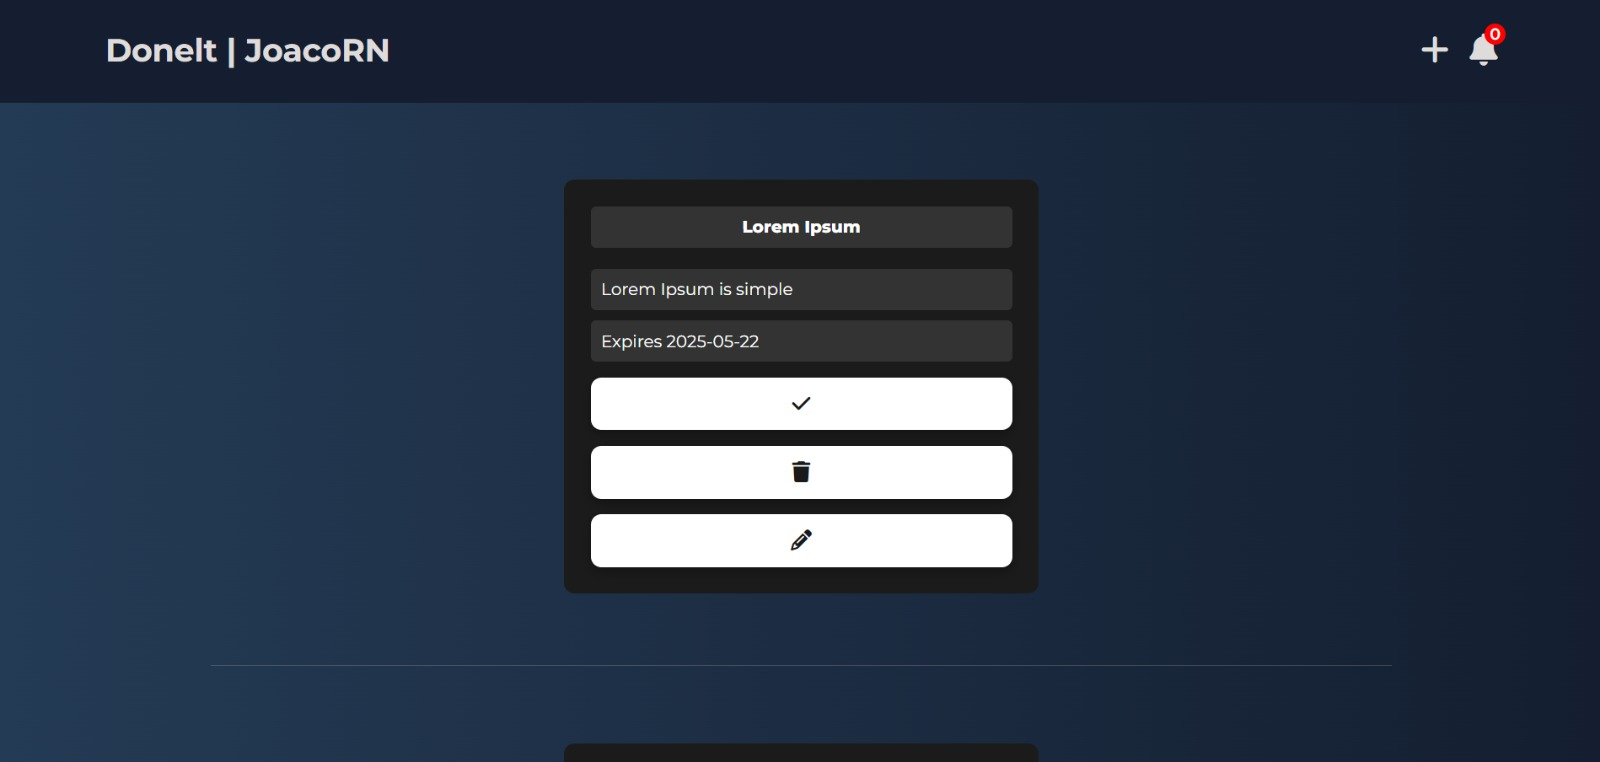
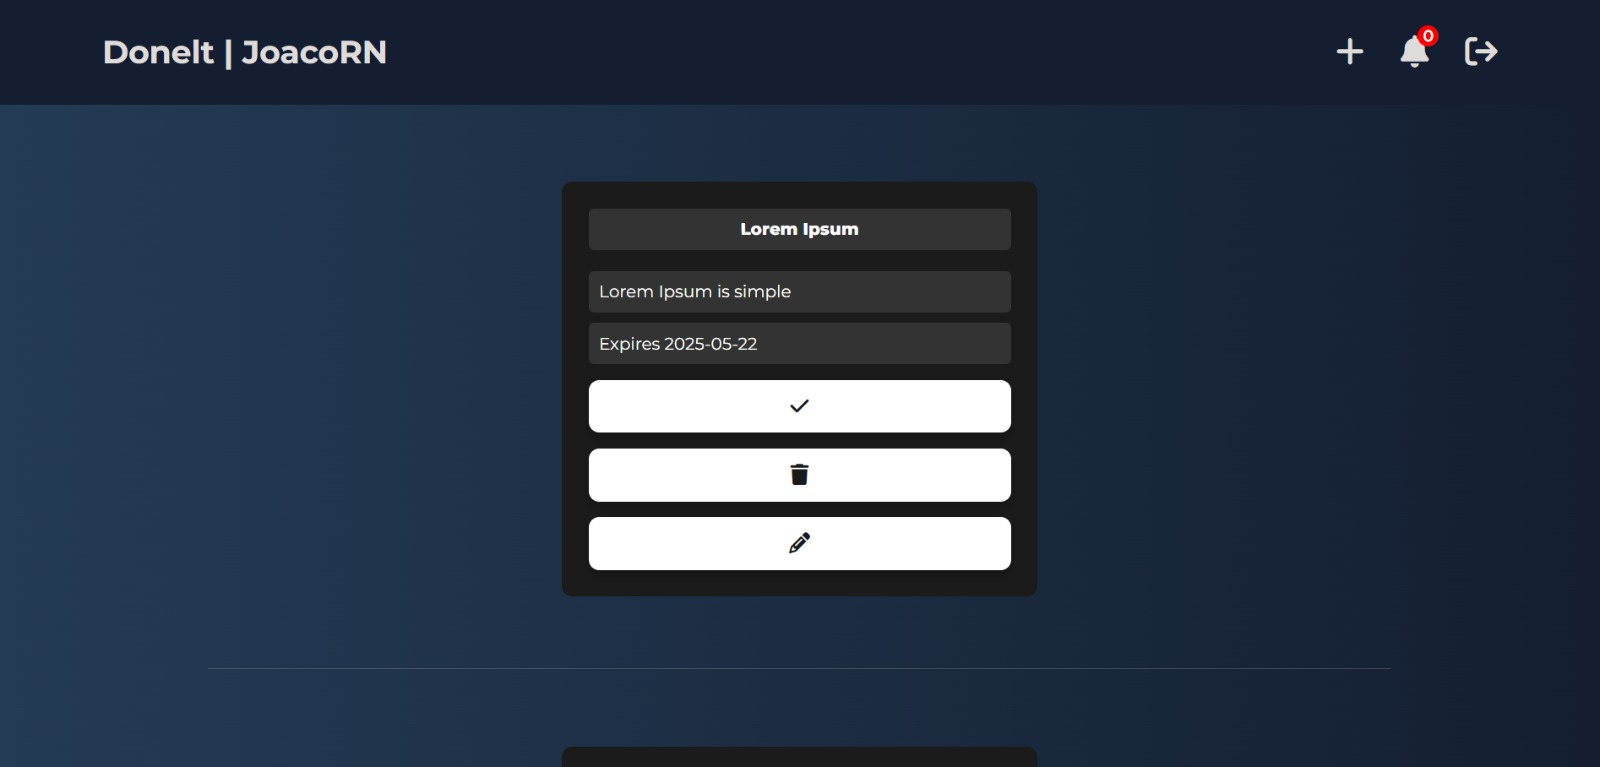
Log out implemented and token validation added to prevent unauthorized web access

diff --git a/frontend/assets/js/donelt.js b/frontend/assets/js/donelt.js
@@ -3,6 +3,13 @@ const username = JSON.parse(sessionStorage.getItem("username"));
 const taskSection = document.getElementById("tasks")
 const completedTasksSection = document.getElementById("completed-tasks")
 const title = document.getElementById("title")
+const logoutBtn = document.getElementById("logout")
+
+const token = sessionStorage.getItem("token");
+
+if (!token) {
+  window.location.href = "/index.html";
+}
 
 title.innerHTML += " " + username
 
@@ -230,6 +237,11 @@ function completeTask(id) {
       console.error("Error:", error.message);
     });
 }
+
+logoutBtn.addEventListener('click', ()=>{
+  sessionStorage.clear()
+  window.location.href = "/index.html"
+})
 
 getNotifications()
 getTasks()

diff --git a/frontend/assets/js/updateTask.js b/frontend/assets/js/updateTask.js
@@ -5,6 +5,12 @@ const description = decodeURIComponent(params.get("description"));
 const expirationDate = params.get("expirationDate");
 const taskId = params.get("id");
 
+const token = sessionStorage.getItem("token");
+
+if (!token) {
+  window.location.href = "/index.html";
+}
+
 // Rellenar los inputs con los valores actuales
 document.getElementById("text").value = title;
 document.getElementById("description").value = description;

diff --git a/frontend/assets/css/style.css b/frontend/assets/css/style.css
@@ -49,7 +49,7 @@ i {
 
 nav {
     display: flex;
-    gap: 20px;
+    gap: 35px;
 }
 
 .noti-counter {
@@ -57,7 +57,7 @@ nav {
     width: 20px;
     height: 20px;
     background-color: red;
-    right: 92px;
+    right: 155px;
     top: 25px;
     border-radius: 50%;
     display: flex;

diff --git a/frontend/assets/js/createTask.js b/frontend/assets/js/createTask.js
@@ -1,3 +1,9 @@
+const token = sessionStorage.getItem("token");
+
+if (!token) {
+  window.location.href = "/index.html";
+}
+
 document.getElementById("loginForm").addEventListener("submit", async (e) => {
     e.preventDefault();
 

diff --git a/frontend/donelt.html b/frontend/donelt.html
@@ -29,6 +29,7 @@
             </div>
           </div>
         </div>
+        <i class="fa-solid fa-arrow-right-from-bracket" id="logout"></i>
       </nav>
     </header>
     <main>
